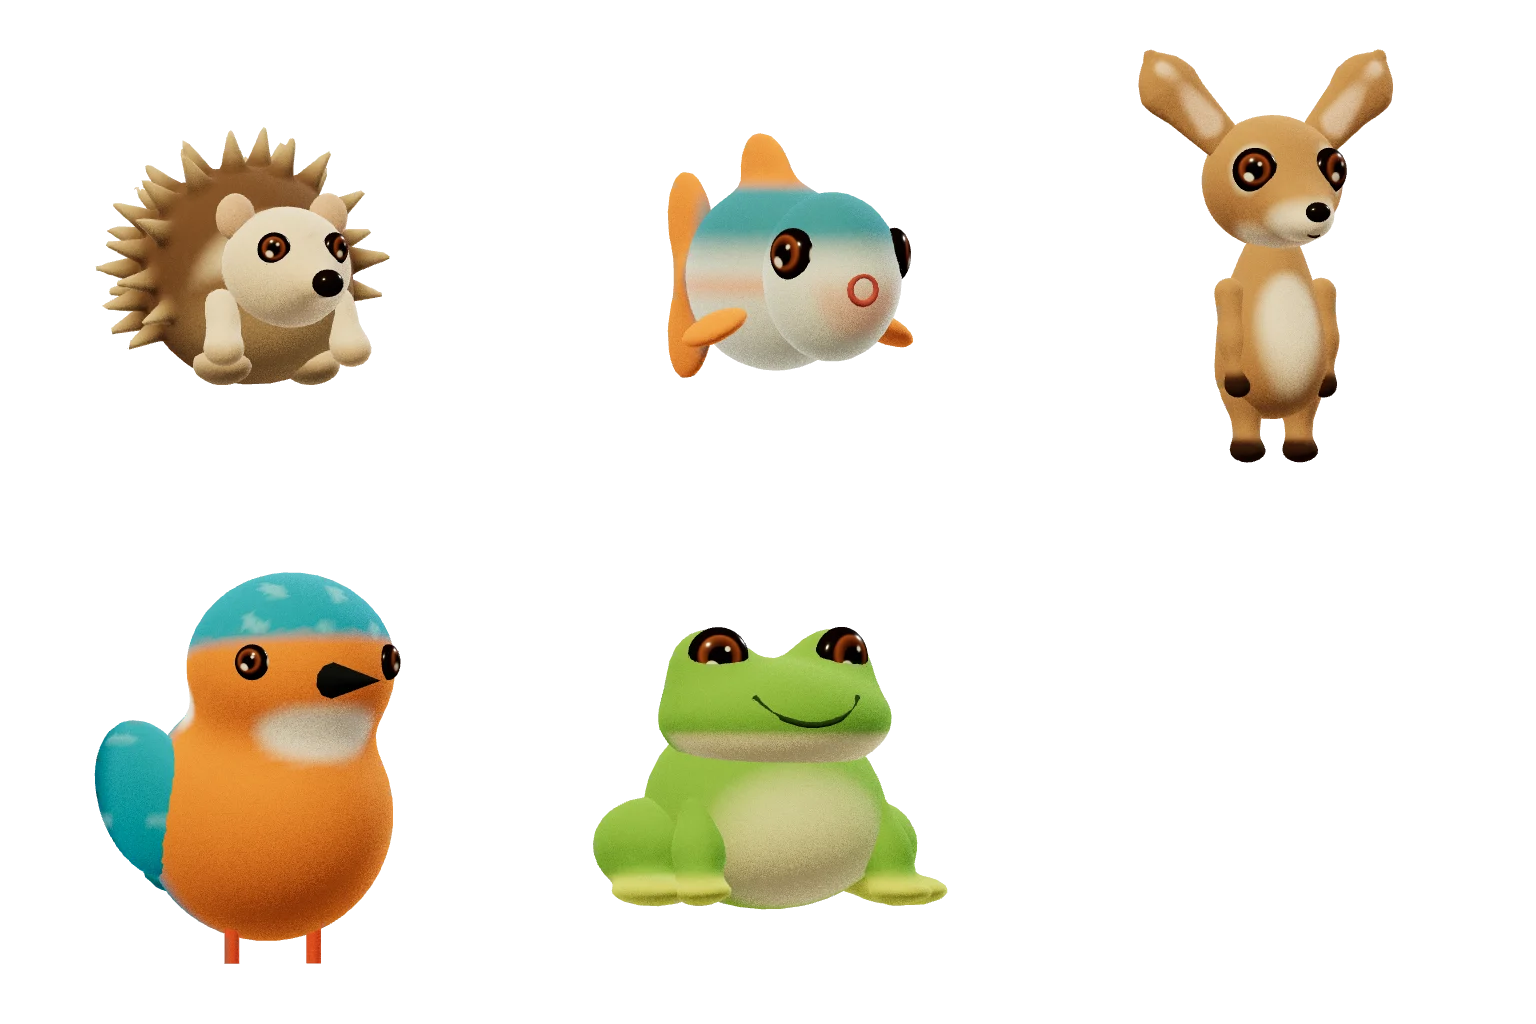
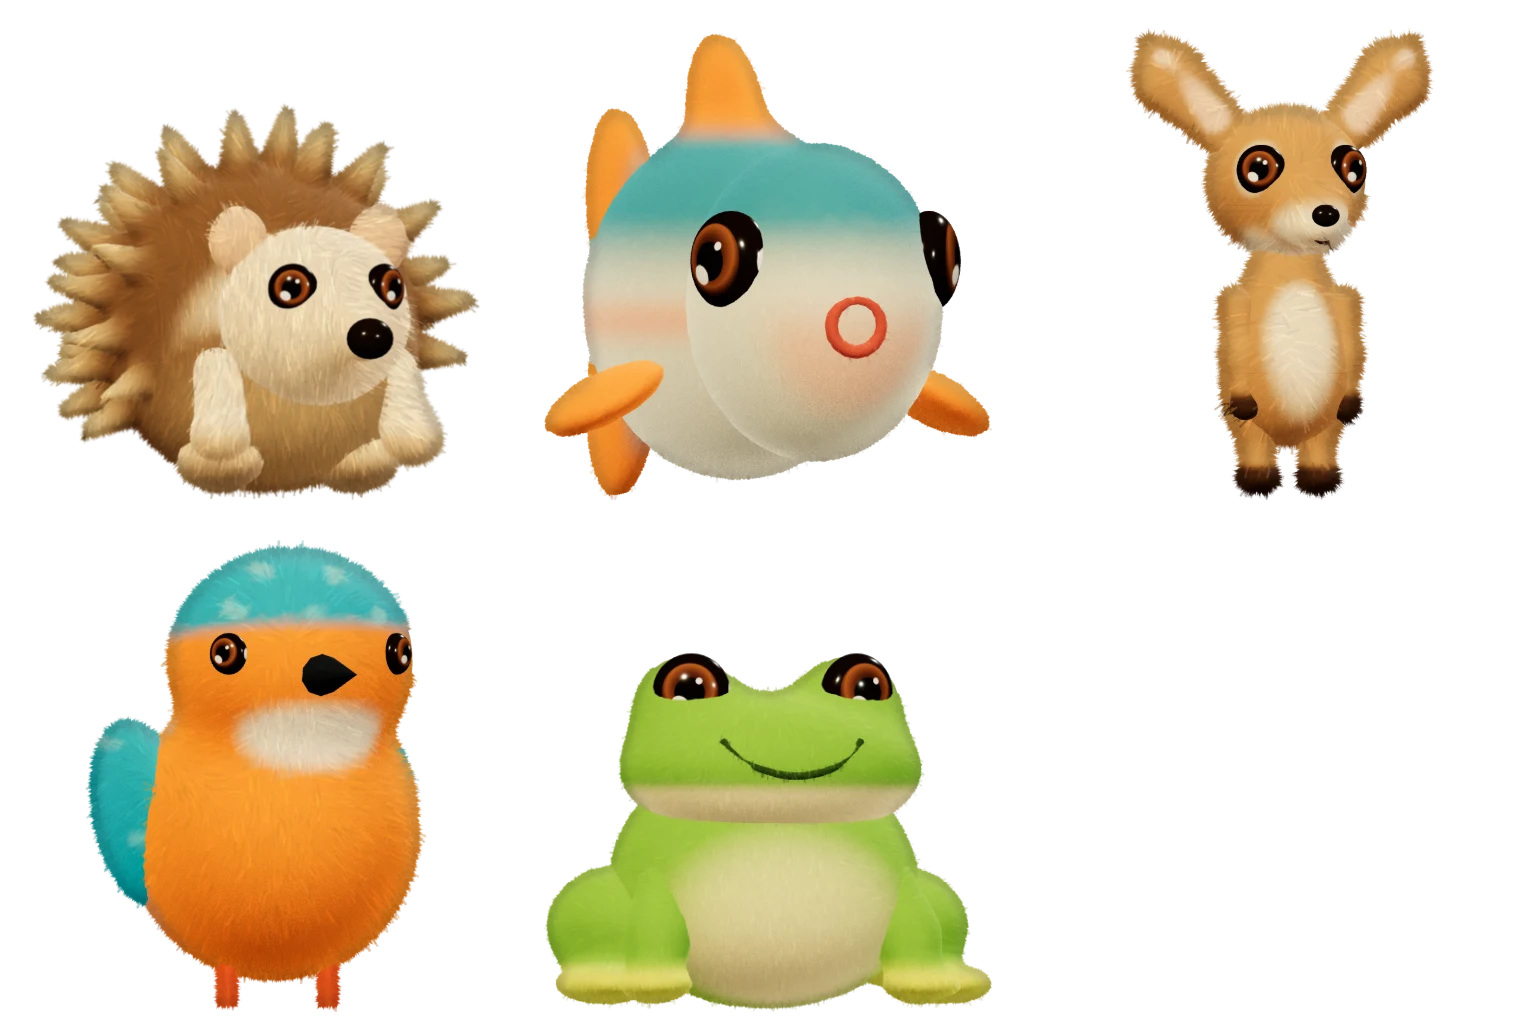
Neighbour portraits at the size and detail of the painted friends
Igel, Fisch, Reh, Eisvogel and Frosch filled only about half of their portrait cells
and were flat 512 px renders, so in the Waldspiele tabs, host chips and on the picture
map they looked smaller and plainer than the first five friends.

- tools/portraits renders each character at 1536 px, paints brushed fur, a fluffy
  outline and a warm edge shade over it (eyes, nose and beak kept crisp; fish and frog
  stay smooth felt), then crops and scales it into its cell with the painted friends'
  framing (up to 448 x 472 px, centred, standing at 500 px).
- Fish and kingfisher turned to show both eyes.
- New assets/forest-friends/neighbours.webp (68 KB -> 146 KB); code and cells unchanged.
- Asset request A4 for fully painted portraits; COMPARISON.md with before/after shots.
- App/cache 9.0.5.

Claude-Session: https://claude.ai/code/session_01QBFn7U9MV9u1ZXtDXrCL2J

diff --git a/tools/portraits/portraits.html b/tools/portraits/portraits.html
@@ -1,20 +1,34 @@
 <!doctype html>
 <html lang="de-CH"><head><meta charset="utf-8"><title>Neighbour portraits (development)</title>
 <style>html,body{margin:0;background:transparent}canvas{display:block}</style></head>
-<body><canvas id="c" width="512" height="512"></canvas>
+<body><canvas id="c" width="1536" height="1536"></canvas>
 <script type="module">
-/* Renders one plush character as a portrait cell for assets/forest-friends/neighbours.webp
-   (see tools/portraits/README.md): ?id=deer. Transparent background, three-quarter view, soft key light. */
+/* Renders one plush character large (1536 px, transparent) for a portrait cell of
+   assets/forest-friends/neighbours.webp (see tools/portraits/README.md): ?id=deer.
+   render.cjs paints fur over it, crops it to the character and scales it down into the 512 px cell,
+   so the framing and the brushed fur match the painted friends. Lighting follows the painted
+   sheet: warm, soft and frontal, a gentle fill from the right and a light rim from behind. */
 import {THREE} from '../../js/forest/materials.js';
 import {characters,castReady} from '../../js/friends/characters3d.js';
 await castReady;
 window.FK=window.FK||{reduced:true};
-const id=new URLSearchParams(location.search).get('id')||'deer',canvas=document.getElementById('c');
-const renderer=new THREE.WebGLRenderer({canvas,antialias:true,alpha:true,preserveDrawingBuffer:true});renderer.setPixelRatio(1);renderer.setClearColor(0,0);renderer.outputColorSpace=THREE.SRGBColorSpace;renderer.toneMapping=THREE.ACESFilmicToneMapping;
-const scene=new THREE.Scene();scene.add(new THREE.HemisphereLight('#fff1d6','#8a6c46',1.5));const key=new THREE.DirectionalLight('#ffe2b0',2.4);key.position.set(-2,4,5);scene.add(key);const rim=new THREE.DirectionalLight('#ffffff',1.1);rim.position.set(3,2,-3);scene.add(rim);
-const rig=characters[id](1);rig.group.rotation.y=.42;scene.add(rig.group);rig.update(.016,{reduced:true});
-const box=new THREE.Box3();rig.group.updateMatrixWorld(true);rig.group.traverse(o=>{if(o.isSkinnedMesh&&o.visible){o.skeleton.update();o.computeBoundingBox();box.union(o.boundingBox.clone().applyMatrix4(o.matrixWorld));}});
-const c=box.getCenter(new THREE.Vector3()),size=box.getSize(new THREE.Vector3()),r=Math.max(size.x,size.y)*.62;
-const camera=new THREE.OrthographicCamera(-r,r,r,-r,.1,50);camera.position.set(c.x,c.y+r*.05,c.z+10);camera.lookAt(c.x,c.y,c.z);
-renderer.render(scene,camera);window.ready=true;
+const q=new URLSearchParams(location.search),id=q.get('id')||'deer',canvas=document.getElementById('c');
+// Three-quarter turn towards the viewer, as in postcard-friends.webp (per character: the fish and the
+// kingfisher are side-on models, so they turn further to show both eyes).
+const YAW={hedgehog:.38,fish:.3,deer:.32,kingfisher:.26,frog:.22},TILT={};
+const renderer=new THREE.WebGLRenderer({canvas,antialias:true,alpha:true,preserveDrawingBuffer:true});renderer.setPixelRatio(1);renderer.setClearColor(0,0);
+renderer.outputColorSpace=THREE.SRGBColorSpace;renderer.toneMapping=THREE.ACESFilmicToneMapping;renderer.toneMappingExposure=+(q.get('exposure')||1.12);
+const scene=new THREE.Scene();
+scene.add(new THREE.HemisphereLight('#fff4de','#9c7a52',1.35));
+const key=new THREE.DirectionalLight('#ffe6bd',2.3);key.position.set(-2.5,4,6);scene.add(key);
+const fill=new THREE.DirectionalLight('#fff3e2',.75);fill.position.set(4,1.5,4);scene.add(fill);
+const rim=new THREE.DirectionalLight('#fffaf0',1.2);rim.position.set(2.5,3,-4);scene.add(rim);
+const rig=characters[id](1);rig.group.rotation.set(TILT[id]||0,YAW[id]??.4,0);scene.add(rig.group);rig.update(.016,{reduced:true});
+// Generous frame around the body's origin; the crop happens in render.cjs.
+const camera=new THREE.OrthographicCamera(-1,1,1,-1,.1,50);camera.position.set(0,.5,10);camera.lookAt(0,.5,0);
+renderer.render(scene,camera);window.colour=canvas.toDataURL('image/png');
+// Second pass: a mask of the glossy parts (eyes, nose, beak, mouth), which render.cjs keeps crisp over the painted fur.
+const black=new THREE.MeshBasicMaterial({color:0x000000,toneMapped:false}),white=new THREE.MeshBasicMaterial({color:0xffffff,toneMapped:false});
+rig.group.traverse(o=>{if(o.isMesh)o.material=/plush-fur/.test(o.material.customProgramCacheKey?.()||'')?black:white;});
+renderer.toneMapping=THREE.NoToneMapping;renderer.render(scene,camera);window.mask=canvas.toDataURL('image/png');window.ready=true;
 </script></body></html>

diff --git a/sw.js b/sw.js
@@ -1,5 +1,5 @@
 /* Farbtupf – Service Worker: keeps the whole app on the device so it runs without internet. */
-const CACHE = 'farbtupf-v9.0.4-recovery';
+const CACHE = 'farbtupf-v9.0.5-recovery';
 const SCOPE=self.registration.scope;
 const INDEX=new URL('index.html',SCOPE).href;
 const ACTIVE_MARKER=new URL('.farbtupf-active-cache',SCOPE).href;

diff --git a/js/core/util.js b/js/core/util.js
@@ -3,7 +3,7 @@
   'use strict';
   const FK = (window.FK = window.FK || {});
 
-  FK.VERSION = '9.0.4';
+  FK.VERSION = '9.0.5';
   FK.TAU = Math.PI * 2;
   FK.$ = (sel, root) => (root || document).querySelector(sel);
   FK.$$ = (sel, root) => Array.prototype.slice.call((root || document).querySelectorAll(sel));

diff --git a/design/forest-friends/visuals/milestones/waldbuch/COMPARISON.md b/design/forest-friends/visuals/milestones/waldbuch/COMPARISON.md
@@ -144,3 +144,19 @@ The larger differences come from tasks being chosen at random, not from compress
 | New pictures | None delivered yet (`words-four`, `words-five` in `ASSET-REQUESTS.md`); the interim fallbacks stay. |
 
 **Validation.** `node --test tests/*.test.cjs` (170 pass; the offline sheet test now also checks the six-sheet limit); `puzzles-browser.cjs` (including offline reload), `friends-library-browser.cjs`, `interface-browser.cjs`, `den-browser.cjs`, `friends-mail-browser.cjs`, `browser-smoke.cjs`, `painted-browser.cjs`, `world-browser.cjs` and `friends-animation-browser.cjs` pass.
+
+## Neighbour portraits · app 9.0.5
+
+Build: app/cache 9.0.5 (`farbtupf-v9.0.5-recovery`), 11 November 2026. Chromium (SwiftShader), 1080 × 810 and 390 × 844 at device scale 2, reduced motion, `?software=1`.
+
+The owner found Igel, Fisch, Reh, Eisvogel and Frosch smaller and less detailed than the painted friends in the Waldspiele tabs and on the picture map. Cause: their sheet (`assets/forest-friends/neighbours.webp`) was a plain 512 px render with a loose camera, so each character filled only about half of its cell (for example the Igel 294 × 257 px, the Eichhörnchen 405 × 468 px), with flat light and no fur detail.
+
+| Evidence | What changed |
+| --- | --- |
+| [Sheet, before above and after below](neighbours-sheet.jpg) | Rendered at 1536 px and cropped to the character: 448 × 472 px at most, centred, standing at 500 px like the painted friends. Brushed fur strokes, fluffy outline and a warm edge shade painted over the render; eyes, nose and beak stay crisp; fish and frog keep a smooth felt look. Fish and Eisvogel turned to show both eyes. |
+| Waldspiele: [tablet](neighbours-menu-1080.jpg), [phone](neighbours-menu-390.jpg) | Tabs and host chips show the neighbours at the same size as the first five friends. |
+| Picture map: [tablet](neighbours-map-1080.jpg), [phone](neighbours-map-390.jpg) | Pins of the neighbours filled like the others. |
+
+Only the sheet changed (68 KB → 146 KB); code, cells and the 3D models are as before. The models themselves stay simpler than the painted art (no brows, simpler paws), so the portraits match the plush characters in the forest rather than adding detail they do not have. Painted portraits in the style of `postcard-friends.webp` would close the remaining gap; they can replace the sheet cell for cell.
+
+**Validation.** `node --test tests/*.test.cjs` (176 pass); `interface-browser.cjs` passes (eleven map pins). `friends-library-browser.cjs` stops at line 83 as before this change (known since the puzzle unification, see `design/world-10x/PLAN.md`).

diff --git a/design/visual-overhaul/ASSET-REQUESTS.md b/design/visual-overhaul/ASSET-REQUESTS.md
@@ -20,6 +20,18 @@ Same prompt with a 2 × 2 grid: (1) a wooden wardrobe with two doors (`wardrobe`
 
 Not needed: the celebration uses existing `forest-objects` leaf, flower, feather, nut, berry, lantern and branch.
 
+## A4 · Optional: painted neighbour portraits `neighbours.webp`
+
+Interim: `tools/portraits/` renders the five neighbours from their plush models and paints fur over them (app 9.0.5). Painted art would match the first five friends fully.
+
+**Reference to attach:** `assets/forest-friends/postcard-friends.webp` (style, scale and framing) and `assets/forest-friends/neighbours.webp` (the characters' shapes and colours, so the portraits still match the 3D plush cast).
+
+**Prompt**
+
+> Production art for Farbtupf, a first-grade children's app. Match the attached friends sheet exactly in medium and finish: soft plush storybook characters with brushed fur, big glossy brown eyes with two catchlights, gentle smile, warm soft frontal light, no outline, fully transparent background. A 3 × 2 grid of equal square cells; each character standing, centred, three-quarter view, filling about 90 % of its cell height, nothing touching the cell edges, no shadows, no text. Use the second attached sheet for each character's shape and colours: (1) Igel, a round hedgehog with soft tan spines, cream face and pink ears, (2) Fisch, a round plush fish, teal back, white belly, orange fins, small round mouth, (3) Reh, a young roe deer standing upright, big ears, cream chest, dark hooves, (4) Eisvogel, a round kingfisher, turquoise cap and wings, orange body, white throat, short black beak, (5) Frosch, a sitting green frog with a pale belly and a wide smile, (6) empty.
+
+Save as `assets/forest-friends/neighbours.webp`, 1536 × 1024, WebP quality 86 with alpha; cells and code stay as they are.
+
 ## Acceptance
 
 - Each picture is recognisable without its word to a six-year-old (check with the child test).

diff --git a/tools/portraits/README.md b/tools/portraits/README.md
@@ -2,5 +2,16 @@
 
 `assets/forest-friends/neighbours.webp` holds the five big-world neighbours as plush portraits in the same
 3 × 2 layout as `postcard-friends.webp` (512 px cells): Igel, Fisch, Reh / Eisvogel, Frosch, (empty).
-They are rendered from the baked models, so they match the 3D characters. To redo them after a bake,
-serve the repository root and run `node tools/portraits/render.cjs` (needs Playwright and Pillow-free Node only).
+They are rendered from the baked models, so they match the 3D characters, and then finished to sit next to
+the painted friends in the Waldspiele tabs, on the picture map and on letters:
+
+- `portraits.html?id=…` renders one character at 1536 px with a transparent background, turned three-quarters
+  towards the viewer and lit warm and soft from the front, plus a mask of its glossy parts (eyes, nose, beak, mouth).
+- `render.cjs` paints over each render (a warm shade towards the outline, brushed fur strokes, a fluffy fringe,
+  the glossy parts kept crisp on top; fish and frog get only a faint felt texture), crops it to the character and
+  scales it into its cell with the framing of the painted friends: up to 448 × 472 px, centred, lowest pixel at
+  500 px. The turn per character is `YAW` in `portraits.html`, the brushwork per character `BRUSH` in `render.cjs`.
+
+To redo them after a bake, serve the repository root and run `node tools/portraits/render.cjs`
+(needs Playwright with Chromium; `FARBTUPF_PORTRAITS_OUT=/some/file.webp` writes a trial sheet elsewhere).
+Bump the app version afterwards so installed games pick up the new sheet.
